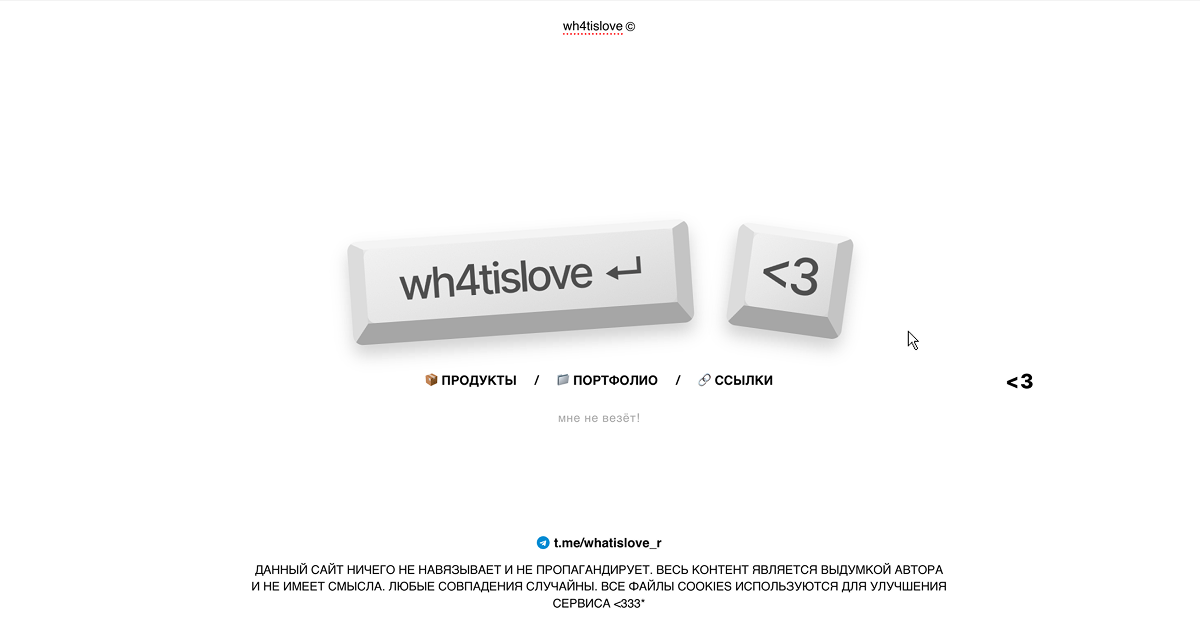
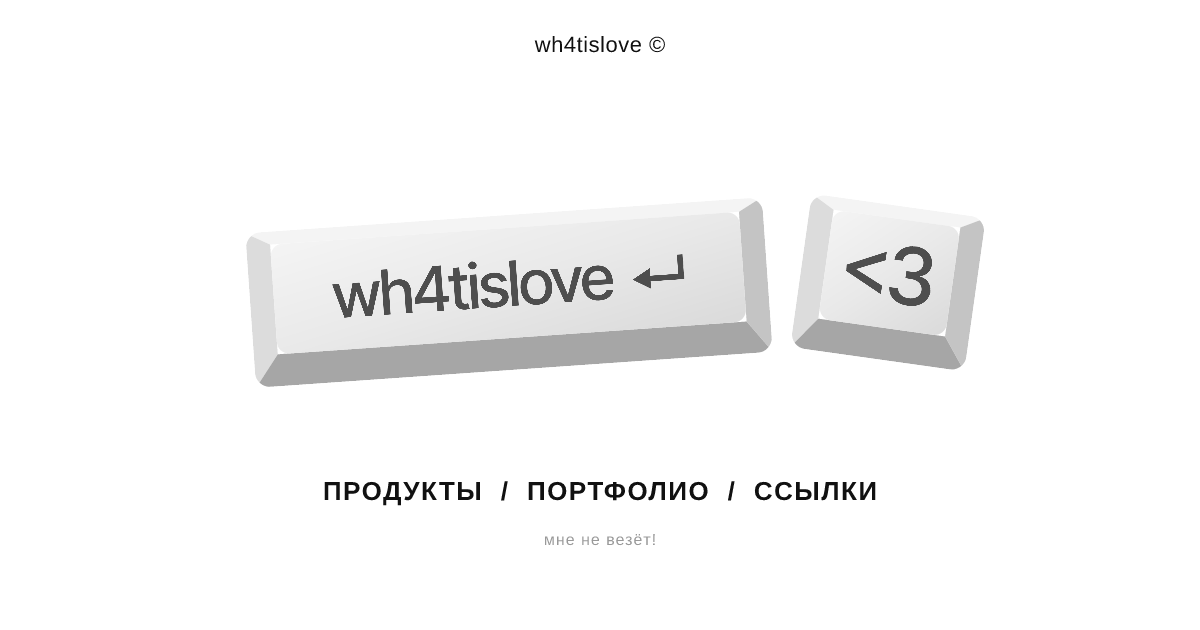
OG preview: bake keycap design into static public/og-default.png
- Regenerate og-default.png with the real keycap layout (wh4tislove + <3,
  bevels/gradient, nav links, "мне не везёт!") via scripts/gen-og.cjs (resvg)
- Point openGraph/twitter images back to static /og-default.png
- Remove dynamic /api/og route (static file is simpler + cache-friendly)
- Fix stray Cyrillic typo in twitter description

https://claude.ai/code/session_01EC2eVuw1NuAdkjt6NUtBwQ

diff --git a/src/app/layout.tsx b/src/app/layout.tsx
@@ -21,13 +21,13 @@ export const metadata = {
     url: siteUrl,
     title: 'Дизайн-студия "WH4T!SLOV3" — Бескомпромиссно. Функционально. Эстетично.',
     description: 'студия whatislove делает хороший дизайн, собственные продукты и просто развлекает народ.',
-    images: [{ url: '/api/og', width: 1200, height: 630, alt: 'WH4T!SLOV3' }],
+    images: [{ url: '/og-default.png', width: 1200, height: 630, alt: 'WH4T!SLOV3' }],
   },
   twitter: {
     card: 'summary_large_image',
     title: 'Дизайн-студия "WH4T!SLOV3" — Бескомпромиссно. Функционально. Эстетично.',
-    description: 'студия whatислove делает хороший дизайн, собственные продукты и просто развлекает народ.',
-    images: ['/api/og'],
+    description: 'студия whatislove делает хороший дизайн, собственные продукты и просто развлекает народ.',
+    images: ['/og-default.png'],
   },
   robots: {
     index: true,